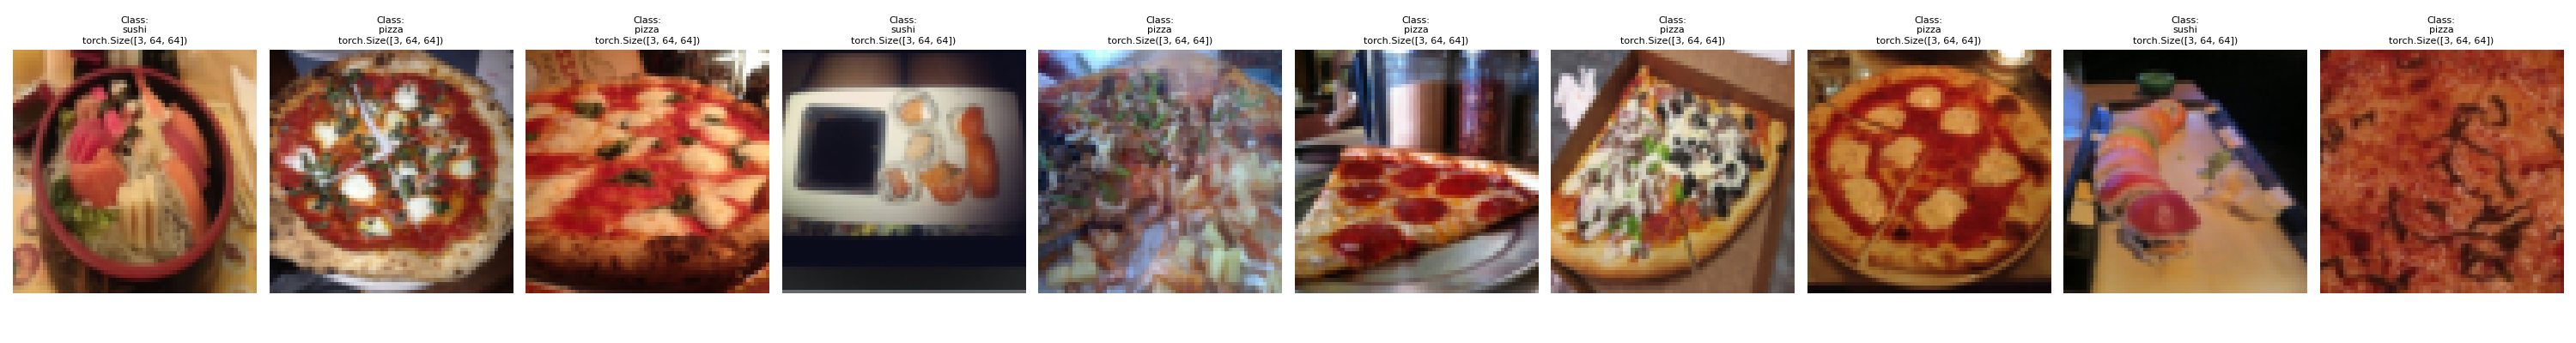
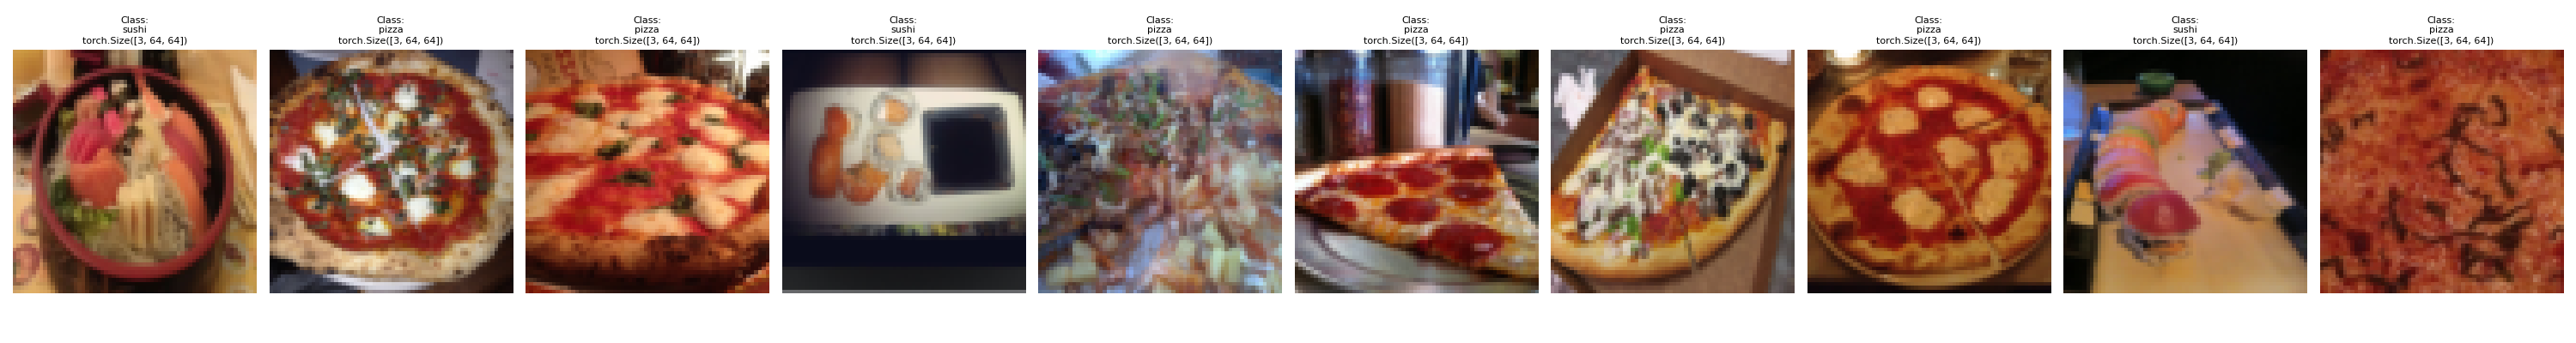
understand augument, build model and get model info

Changed region(s): [[0.496, 0.12, 0.62, 0.87], [0.682, 0.15, 0.806, 0.84], [0.279, 0.15, 0.403, 0.69]]

diff --git a/lessons/section6_pytorch_custom_datasets/src/c_152_pytorch_custom_dataset_build_model.py b/lessons/section6_pytorch_custom_datasets/src/c_152_pytorch_custom_dataset_build_model.py
@@ -1,0 +1,217 @@
+import torch
+from torch import nn
+from torch.utils.data import DataLoader, Dataset
+from torchvision import datasets
+from torchvision.transforms import v2
+import torchinfo
+
+from common.device import get_best_device, print_device_info
+
+from typing import Tuple, Dict, List
+from pathlib import Path
+import pathlib
+import os
+import random
+from PIL import Image
+
+"""
+0. Setting up device-agnostic code
+"""
+device = get_best_device()
+print_device_info(device)
+
+"""
+1. Setup data paths
+   (assumes pizza_steak_sushi data already downloaded and unzipped by a_135_to_x_*.py)
+"""
+data_path = Path("lessons/section6_pytorch_custom_datasets/data")
+image_path = data_path / "pizza_steak_sushi"
+train_dir = image_path / "train"
+test_dir = image_path / "test"
+
+
+"""
+2. Helper function to get class names from directory structure
+"""
+
+
+def find_classes(directory: str | Path) -> Tuple[List[str], Dict[str, int]]:
+    """
+    Finds the class folders in a dataset.
+
+    Args:
+        directory (str | Path): The root directory of the dataset.
+
+    Returns:
+        Tuple[List[str], Dict[str, int]]: A tuple of class names and a dict mapping class name -> index.
+    """
+    class_names_found = sorted(
+        [entry.name for entry in os.scandir(directory) if entry.is_dir()]
+    )
+    if not class_names_found:
+        raise FileNotFoundError(f"Couldn't find any class folders in {directory}.")
+    class_to_idx = {class_name: idx for idx, class_name in enumerate(class_names_found)}
+    return class_names_found, class_to_idx
+
+
+"""
+3. Custom dataset class (replicates torchvision.datasets.ImageFolder)
+"""
+
+
+class ImageFolderCustom(Dataset):
+    def __init__(self, target_dir: str | Path, transform: v2.Compose = None) -> None:
+        self.paths = list(pathlib.Path(target_dir).rglob("*/*.jpg"))
+        self.transform = transform
+        self.class_names, self.class_to_idx = find_classes(target_dir)
+
+    def load_images(self, index: int) -> Image.Image:
+        return Image.open(self.paths[index])
+
+    def __len__(self) -> int:
+        return len(self.paths)
+
+    def __getitem__(self, index: int) -> Tuple[torch.Tensor | Image.Image, int]:
+        image = self.load_images(index)
+        class_name = self.paths[index].parent.name
+        class_idx = self.class_to_idx[class_name]
+        if self.transform:
+            image = self.transform(image)
+        return image, class_idx
+
+
+"""
+7. Mode 0: TinyVGG architecture (same as section 5) without augmentation
+"""
+
+"""
+7.1 Creating transforms for training and testing (no augmentation)
+"""
+# Create simple transform
+simple_transform = v2.Compose(
+    [
+        v2.Resize(size=(64, 64)),
+        v2.ToImage(),
+        v2.ToDtype(torch.float32, scale=True),
+    ]
+)
+
+"""
+7.2 Loading image data using ImageFolder with simple_transform
+"""
+train_data_simple = datasets.ImageFolder(
+    root=train_dir,
+    transform=simple_transform,
+)
+test_data_simple = datasets.ImageFolder(
+    root=test_dir,
+    transform=simple_transform,
+)
+
+class_names = train_data_simple.classes
+print(f"Class names: {class_names}")
+print(f"Number of training samples: {len(train_data_simple)}")
+print(f"Number of testing samples: {len(test_data_simple)}")
+
+# 2. Create Dataloader
+BATCH_SIZE = 32
+NUM_WORKERS = os.cpu_count()
+print(f"Using {NUM_WORKERS} workers for dataloader.")
+train_dataloader_simple = DataLoader(
+    dataset=train_data_simple,
+    batch_size=BATCH_SIZE,
+    shuffle=True,
+    num_workers=NUM_WORKERS,
+)
+test_dataloader_simple = DataLoader(
+    dataset=test_data_simple,
+    batch_size=BATCH_SIZE,
+    shuffle=False,
+    num_workers=NUM_WORKERS,
+)
+
+
+"""
+7.3 Re-define TinyVGG architecture (same as section 5)
+"""
+
+
+class TinyVGG(nn.Module):
+    def __init__(self, in_features: int, hidden_units: int, out_features: int) -> None:
+        super().__init__()
+        self.conv_stack_1 = nn.Sequential(
+            nn.Conv2d(
+                in_channels=in_features,
+                out_channels=hidden_units,
+                kernel_size=3,
+                stride=1,
+                padding=0,
+            ),
+            nn.ReLU(),
+            nn.Conv2d(
+                in_channels=hidden_units,
+                out_channels=hidden_units,
+                kernel_size=3,
+                stride=1,
+                padding=0,
+            ),
+            nn.ReLU(),
+            nn.MaxPool2d(kernel_size=2, stride=2),
+        )
+
+        self.conv_stack_2 = nn.Sequential(
+            nn.Conv2d(
+                in_channels=hidden_units,
+                out_channels=hidden_units,
+                kernel_size=3,
+                stride=1,
+                padding=0,
+            ),
+            nn.ReLU(),
+            nn.Conv2d(
+                in_channels=hidden_units,
+                out_channels=hidden_units,
+                kernel_size=3,
+                stride=1,
+                padding=0,
+            ),
+            nn.ReLU(),
+            nn.MaxPool2d(kernel_size=2, stride=2),
+        )
+
+        # --- Calculate in_features dynamically via a dummy forward pass ---
+        # Best practice: instead of hardcoding the flattened size (which breaks
+        # whenever you change kernel_size, padding, or input resolution),
+        # run a zero tensor through the conv stacks to let PyTorch compute the
+        # output shape for us automatically.
+        # torch.no_grad(): skip gradient tracking — this is just a shape probe.
+        with torch.no_grad():
+            dummy = torch.zeros(
+                1, in_features, 64, 64
+            )  # [batch=1, C, H, W] — matches Resize(64,64) in transform
+            dummy = self.conv_stack_2(self.conv_stack_1(dummy))
+            # dummy shape after both conv stacks: [1, hidden_units, H_out, W_out]
+            linear_in_features = dummy.flatten(start_dim=1).shape[1]
+            # flatten(start_dim=1): collapse all dims except batch → [1, hidden_units*H_out*W_out]
+
+        self.classifier = nn.Sequential(
+            nn.Flatten(),
+            nn.Linear(
+                in_features=linear_in_features,  # auto-computed above
+                out_features=out_features,
+            ),
+        )
+
+    def forward(self, x: torch.Tensor) -> torch.Tensor:
+        return self.classifier(self.conv_stack_2(self.conv_stack_1(x)))
+
+
+torch.manual_seed(42)
+model_0 = TinyVGG(in_features=3, hidden_units=10, out_features=len(class_names)).to(device)
+print(model_0)
+
+"""
+7.4 Use torchinfo to check the model summary and output shapes at each layer
+    (note: torchinfo is a third-party library, install via pip install torchinfo)
+"""
+torchinfo.summary(model_0, input_size=(1, 3, 64, 64))

diff --git a/lessons/section6_pytorch_custom_datasets/src/b_145_to_x_pytorch_custom_dataset_using_self_custom_dataloading_class.py b/lessons/section6_pytorch_custom_datasets/src/b_145_to_x_pytorch_custom_dataset_using_self_custom_dataloading_class.py
@@ -317,4 +317,78 @@ print(f"Number of batches in test dataloader: {len(test_dataloader_custom)}")
 
 # Get image and label from dataloader
 image_batch, label_batch = next(iter(train_dataloader_custom))
-print(f"Image batch shape: {image_batch.shape} | Label batch shape: {label_batch.shape}")
+print(
+    f"Image batch shape: {image_batch.shape} | Label batch shape: {label_batch.shape}"
+)
+
+
+"""
+6. Other forms of transforms (data augmentation and normalization)
+
+Looks at one type of augmentation to train PyTorch vision model
+"""
+# Look at trivial augmentation
+train_trivial_augmentation = v2.Compose(
+    [
+        v2.Resize(size=(224, 224)),
+        v2.TrivialAugmentWide(
+            num_magnitude_bins=5
+        ),  # apply a random augmentation to the image (from a list of 5 augmentations)
+        v2.ToImage(),  # PIL Image → uint8 tensor [C, H, W]
+        v2.ToDtype(torch.float32, scale=True),  # uint8 [0, 255] → float32 [0.0, 1.0]
+    ]
+)
+
+test_trivial_augmentation = v2.Compose(
+    [
+        v2.Resize(size=(224, 224)),
+        v2.ToImage(),  # PIL Image → uint8 tensor [C, H, W]
+        v2.ToDtype(torch.float32, scale=True),  # uint8 [0, 255] → float32 [0.0, 1.0]
+    ]
+)
+
+# Get all image paths
+image_paths_list = list(image_path.glob("*/*/*.jpg"))
+print(f"Total number of images: {len(image_paths_list)}")
+
+
+# Plot random transformed images
+def plot_transformed_image(image_paths, transform, n=3, seed=None):
+    """
+    Plot n random images in a single figure with 2 columns:
+      - Left column: original image
+      - Right column: transformed image
+    """
+    if seed:
+        random.seed(seed)
+    random_image_paths = random.sample(image_paths, k=n)
+
+    fig, axes = plt.subplots(nrows=n, ncols=2, figsize=(8, n * 3))
+
+    for row, image_path in enumerate(random_image_paths):
+        with Image.open(image_path) as f:
+            class_name = image_path.parent.stem
+
+            # Left: original image
+            axes[row, 0].imshow(f)
+            axes[row, 0].set_title(f"Original | {class_name}\nSize: {f.size}")
+            axes[row, 0].axis(False)
+
+            # Right: transformed image
+            # transform returns [C, H, W] tensor; permute to [H, W, C] for matplotlib
+            transformed_image = transform(f)
+            assert isinstance(transformed_image, torch.Tensor)
+            axes[row, 1].imshow(transformed_image.permute(1, 2, 0))
+            axes[row, 1].set_title(
+                f"Transformed | {class_name}\nShape: {transformed_image.shape}"
+            )
+            axes[row, 1].axis(False)
+
+
+plot_transformed_image(
+    image_paths=image_paths_list, transform=train_trivial_augmentation, n=3, seed=42
+)
+plt.tight_layout()
+plt.savefig(
+    "lessons/section6_pytorch_custom_datasets/src/a_line_385_trivial_augmentation_transformed_images.png"
+)